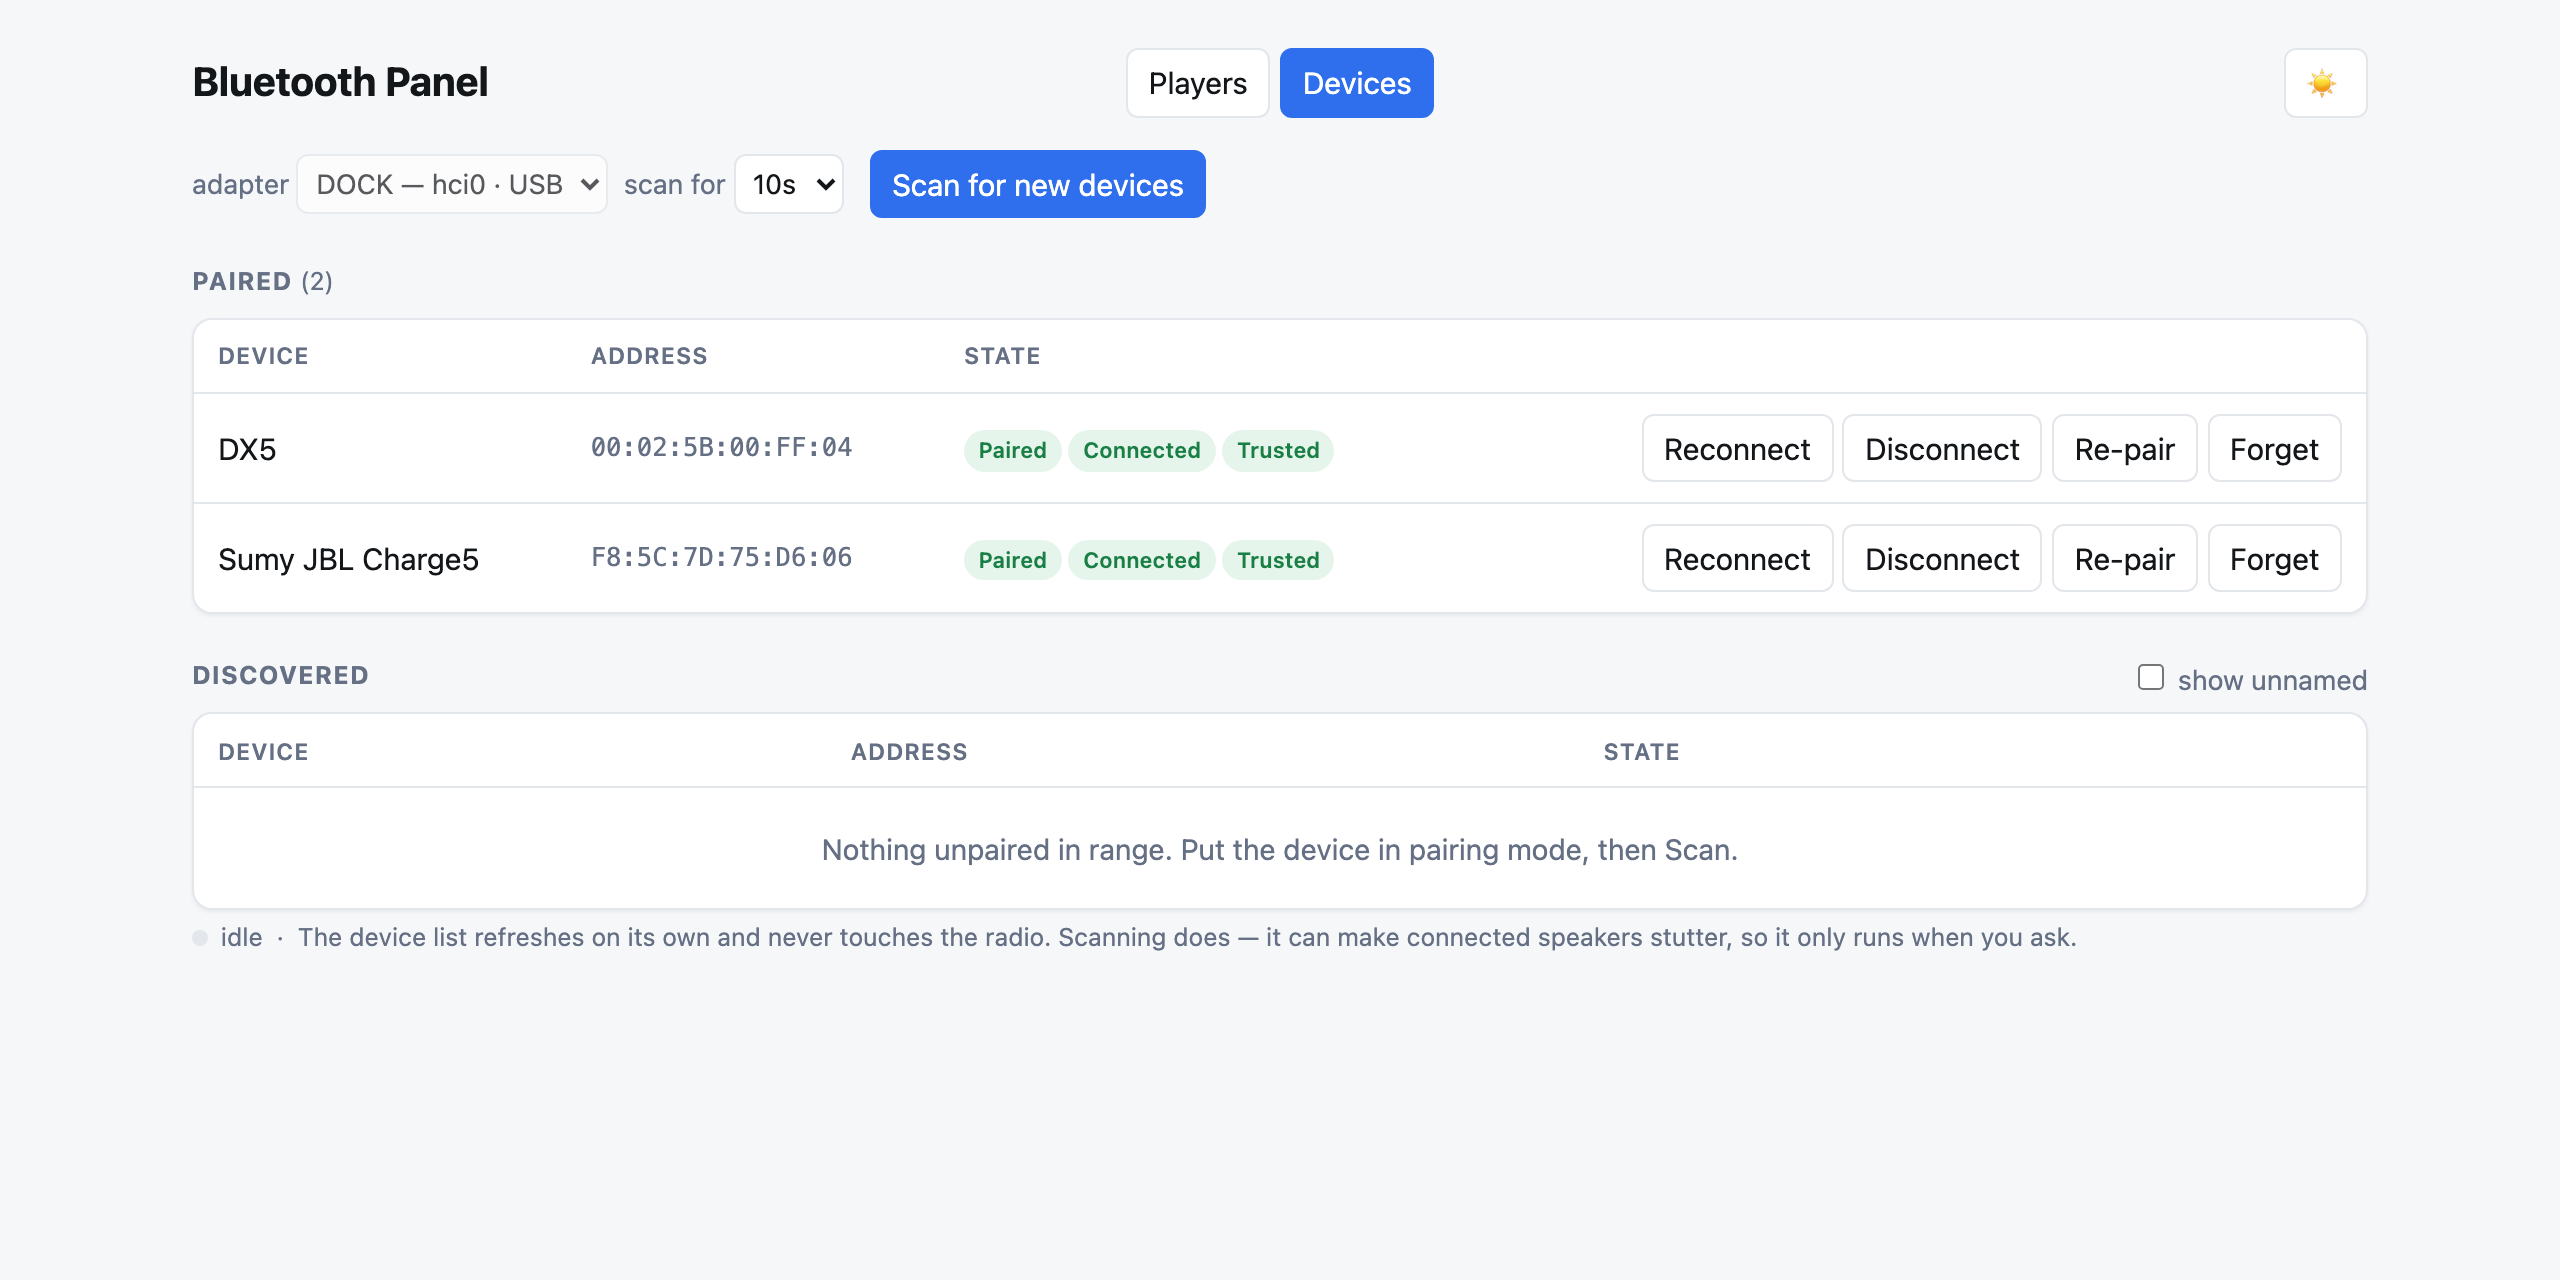
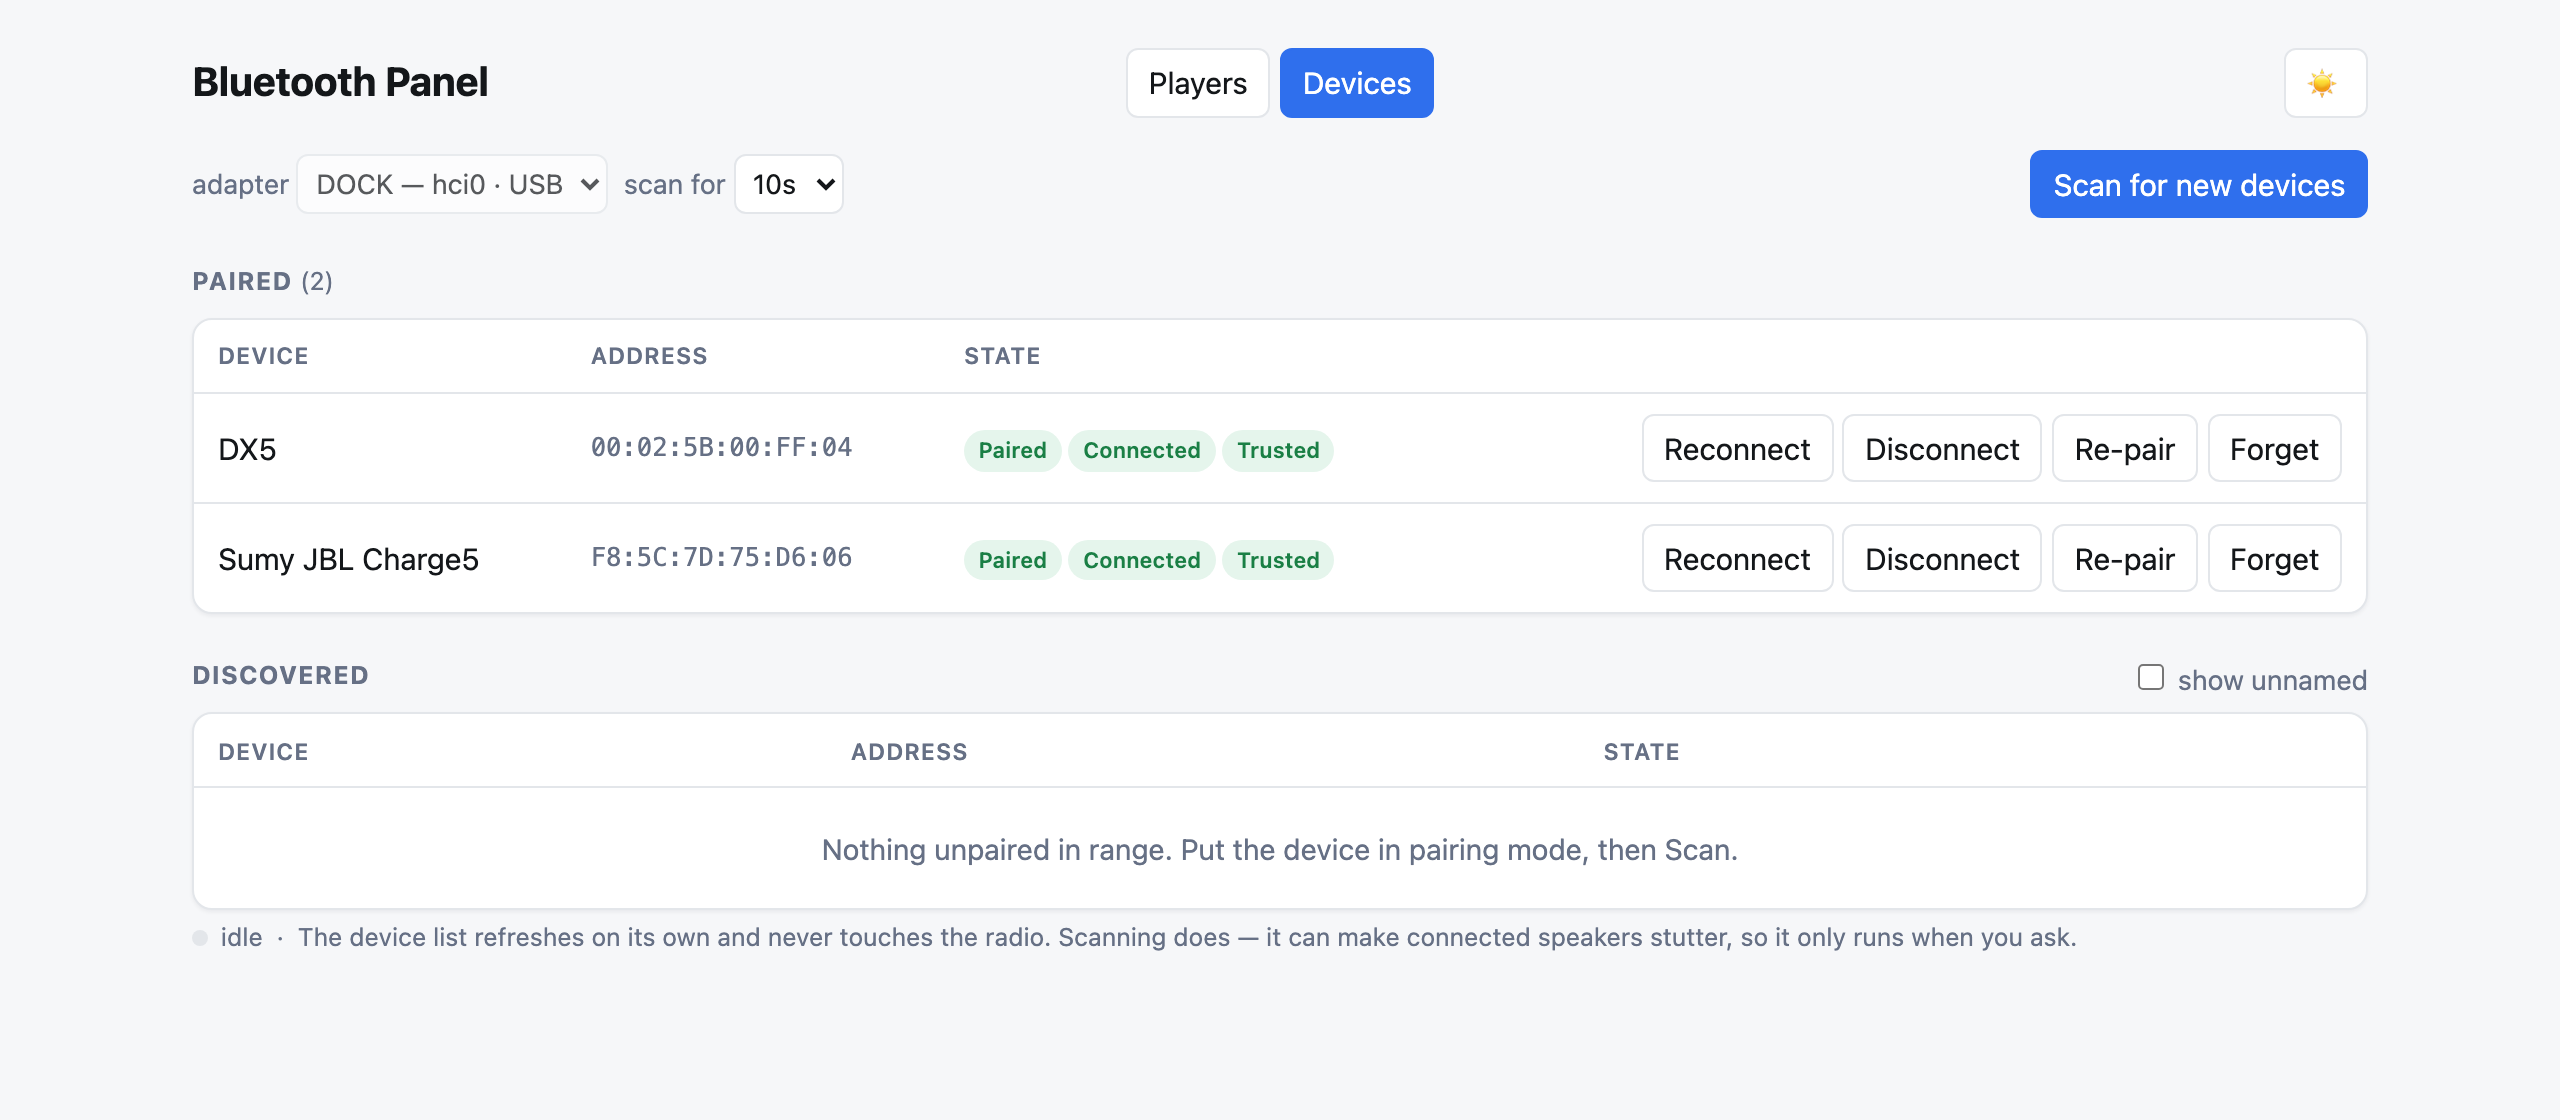
Keep transport controls through a pause, and UI polish
Pausing a player made its controls disappear with no way to resume. Music
Assistant detaches the client's group from its MA stream when you pause and
parks it on "default", which reports canControl=False and carries no metadata.
Reading the group's *current* stream therefore looked like "nothing to control
here": buttons gone, track gone, and /control/play refused because the default
stream cannot be controlled.

The MA stream is still there the whole time, still controllable, still holding
the paused track. snapctl now remembers the last controllable stream per client
and keeps reporting and driving that one when the group has been parked
elsewhere, flagging it with attached=False. The row keeps the artwork and title,
labels it "paused ·", and offers play -- which resumes and re-attaches the
group. Verified end to end against the live server: pause, then resume from the
browser.

Also:

Delete in the edit dialog is filled red rather than a plain button that only
turns red on hover -- a destructive action should look destructive before you
touch it.

The players card no longer shows a horizontal scrollbar. It came from a
min-width on the table that outweighed the container; the two widest cells
(now-playing text, sink name) now give ground instead, with the full sink in
title=.

Scan sits at the right of the Devices toolbar, matching Add player on the
Players side.

README screenshots retaken for all four views against the live server, now with
[…]

diff --git a/static/index.html b/static/index.html
@@ -70,14 +70,13 @@
        the right edge instead of letting the row scroll. */
     overflow-x: auto;
   }
-  .card > table { min-width: 44rem; }
   table { width: 100%; border-collapse: collapse; }
   th, td { padding: .6rem .75rem; text-align: left; border-bottom: 1px solid var(--line); vertical-align: middle; }
   th { font-size: .72rem; text-transform: uppercase; letter-spacing: .04em; color: var(--muted); font-weight: 600; }
   tr:last-child td { border-bottom: none; }
   td.mac { font-family: ui-monospace, SFMono-Regular, Menlo, monospace; font-size: .8rem; color: var(--muted); white-space: nowrap; }
   .sink {
-    font-size: .72rem; color: var(--muted); max-width: 15rem;
+    font-size: .72rem; color: var(--muted); max-width: 12rem;
     white-space: nowrap; overflow: hidden; text-overflow: ellipsis;
   }
   td.actions { text-align: right; white-space: nowrap; }
@@ -95,6 +94,11 @@
   button.primary { background: var(--accent); border-color: var(--accent); color: #fff; }
   button.primary:hover:not(:disabled) { color: #fff; filter: brightness(1.08); }
   button.danger:hover:not(:disabled) { border-color: var(--danger); color: var(--danger); }
+  /* A destructive action should read as destructive before you hover it. */
+  button.danger-solid { background: var(--danger); border-color: var(--danger); color: #fff; }
+  button.danger-solid:hover:not(:disabled) {
+    background: var(--danger); border-color: var(--danger); color: #fff; filter: brightness(1.08);
+  }
   .badge {
     display: inline-block; font-size: .68rem; font-weight: 600; padding: .12rem .45rem;
     border-radius: 999px; margin-right: .22rem; background: var(--line); color: var(--muted);
@@ -148,7 +152,7 @@
     flex: 0 0 auto; background: var(--line);
   }
   /* min-width:0 is what lets the ellipsis actually kick in inside a flex row. */
-  .np-text { min-width: 0; flex: 1 1 auto; max-width: 17rem; }
+  .np-text { min-width: 0; flex: 1 1 auto; max-width: 15rem; }
   .np-title { font-size: .82rem; white-space: nowrap; overflow: hidden; text-overflow: ellipsis; }
   .np-artist { font-size: .74rem; color: var(--muted); white-space: nowrap; overflow: hidden; text-overflow: ellipsis; }
   .transport { display: flex; gap: .2rem; flex: 0 0 auto; white-space: nowrap; }
@@ -191,6 +195,7 @@
         <option value="30">30s</option>
       </select>
     </label>
+    <span class="spacer"></span>
     <button id="scan" class="primary">Scan for new devices</button>
   </div>
 
@@ -301,7 +306,7 @@
 
       <div id="dialogError" class="note err" style="display:none"></div>
       <div class="dlg-actions">
-        <button type="button" id="dialogDelete" class="danger" hidden>Delete player</button>
+        <button type="button" id="dialogDelete" class="danger-solid" hidden>Delete player</button>
         <span class="spacer"></span>
         <button type="button" id="dialogCancel">Cancel</button>
         <button type="submit" class="primary" id="dialogSave">Save</button>
@@ -637,16 +642,19 @@
     // The cells are narrow and the text is ellipsised, so the full strings go
     // in title= -- hovering a truncated track name shows all of it.
     const full = [s.title, s.artist, s.album].filter(Boolean).join(" — ");
+    // Paused: Music Assistant parks the group on "default", so keep showing the
+    // stream the player belongs to and label it rather than going blank.
+    const paused = s.attached === false;
     const title = s.title
       ? `<div class="np-title" title="${esc(full)}">${esc(s.title)}</div>
-         <div class="np-artist" title="${esc(full)}">${esc(s.artist || s.album || "")}</div>`
+         <div class="np-artist" title="${esc(full)}">${paused ? "paused · " : ""}${esc(s.artist || s.album || "")}</div>`
       : `<div class="np-artist" title="${esc(s.stream_id || "")}">${esc(s.stream_id || "no stream")} — ${esc(s.stream_status || "idle")}</div>`;
 
     // Only offer what this stream says it supports; the flags differ per stream
     // and change at runtime. A plain pipe stream gets no buttons at all.
     let controls = "";
     if (s.can_control) {
-      const playing = s.playback_status === "playing";
+      const playing = s.playback_status === "playing" && s.attached !== false;
       const b = (cmd, glyph, on, title) =>
         `<button data-cmd="${cmd}" ${on ? "" : "disabled"} title="${title}">${glyph}</button>`;
       controls =

diff --git a/tests/test_snapctl.py b/tests/test_snapctl.py
@@ -15,10 +15,12 @@ from fake_snapserver import FakeSnapserver  # noqa: E402
 @pytest.fixture
 def server():
     snapctl.invalidate()
+    snapctl._last_controllable.clear()
     fake = FakeSnapserver()
     yield fake
     fake.close()
     snapctl.invalidate()
+    snapctl._last_controllable.clear()
 
 
 # ---- client id derivation ---------------------------------------------------
@@ -142,3 +144,67 @@ def test_stale_clients_and_deletion(server):
     snapctl.delete_client("127.0.0.1", server.port, "Ghost")
     assert "Ghost" not in server.clients
     assert snapctl.stale_clients("127.0.0.1", server.port) == []
+
+
+# ---- pause: Music Assistant parks the group on "default" --------------------
+
+
+def test_a_paused_client_keeps_its_stream_and_stays_controllable(server):
+    """The exact live failure: pause detaches the group, controls vanished.
+
+    Music Assistant moves the client's group to the uncontrollable "default"
+    stream when you pause. Reading the group's *current* stream then reports
+    canControl=False with no metadata, the transport disappears, and there is no
+    way to resume. The MA stream is still present and still controllable.
+    """
+    before = snapctl.describe("127.0.0.1", server.port, "Kitchen#2", use_cache=False)
+    assert before["stream_id"] == "ma-kitchen"
+    assert before["attached"] is True
+
+    server.groups["g2"] = "default"          # what pausing does
+
+    after = snapctl.describe("127.0.0.1", server.port, "Kitchen#2", use_cache=False)
+    assert after["stream_id"] == "ma-kitchen", "should keep driving the MA stream"
+    assert after["attached"] is False, "but report that the group is parked"
+    assert after["can_control"] is True
+    assert after["title"] == "Baby Don't Hurt Me", "the paused track stays visible"
+
+
+def test_resuming_a_paused_client_targets_the_remembered_stream(server):
+    snapctl.describe("127.0.0.1", server.port, "Kitchen#2", use_cache=False)
+    server.groups["g2"] = "default"
+
+    info = snapctl.describe("127.0.0.1", server.port, "Kitchen#2", use_cache=False)
+    snapctl.control("127.0.0.1", server.port, info["stream_id"], "play")
+
+    sent = [p for m, p in server.calls if m == "Stream.Control"]
+    assert sent[-1]["id"] == "ma-kitchen"
+    assert server.streams["ma-kitchen"]["playbackStatus"] == "playing"
+
+
+def test_a_client_that_never_had_a_controllable_stream_is_unchanged(server):
+    """No memory to fall back on: report the truth, offer no buttons."""
+    info = snapctl.describe("127.0.0.1", server.port, "Ghost", use_cache=False)
+    assert info["stream_id"] == "default"
+    assert info["can_control"] is False
+    assert info["attached"] is True
+
+
+def test_the_remembered_stream_is_dropped_if_the_server_forgets_it(server):
+    snapctl.describe("127.0.0.1", server.port, "Kitchen#2", use_cache=False)
+    server.groups["g2"] = "default"
+    del server.streams["ma-kitchen"]         # MA tore the stream down
+
+    info = snapctl.describe("127.0.0.1", server.port, "Kitchen#2", use_cache=False)
+    assert info["stream_id"] == "default"
+    assert info["can_control"] is False
+    snapctl.forget("Kitchen#2")
+
+
+def test_moving_to_another_controllable_stream_updates_the_memory(server):
+    snapctl.describe("127.0.0.1", server.port, "Kitchen#2", use_cache=False)
+    server.groups["g2"] = "ma-dx5"
+
+    info = snapctl.describe("127.0.0.1", server.port, "Kitchen#2", use_cache=False)
+    assert info["stream_id"] == "ma-dx5"
+    assert info["attached"] is True

diff --git a/snapctl.py b/snapctl.py
@@ -41,6 +41,16 @@ class SnapcastError(RuntimeError):
 _cache = {"key": None, "at": 0.0, "value": None}
 _cache_lock = threading.Lock()
 
+# The last stream each client was on that could actually be controlled.
+#
+# Music Assistant detaches a client's group from its MA stream when you pause,
+# parking it on "default" -- which reports canControl=False and carries no
+# metadata. Read naively that looks like "nothing to control here": the transport
+# buttons vanish and there is no way to resume from this panel. The MA stream is
+# still there, still controllable, still holding the paused track, so remember it
+# and keep driving that. Verified against a live Music Assistant snapserver.
+_last_controllable = {}
+
 
 def client_id_for(name, instance):
     """The client id snapclient will register with.
@@ -111,6 +121,10 @@ def invalidate():
         _cache.update(key=None, at=0.0, value=None)
 
 
+def forget(client_id):
+    _last_controllable.pop(client_id, None)
+
+
 def _find(status, client_id):
     for group in status.get("groups", []):
         for client in group.get("clients", []):
@@ -136,6 +150,19 @@ def describe(host, port, client_id, use_cache=True):
 
     stream = _stream(status, group.get("stream_id")) or {}
     props = stream.get("properties") or {}
+
+    attached = True
+    if props.get("canControl"):
+        _last_controllable[client_id] = stream.get("id")
+    else:
+        # Fall back to the stream this client last played from, as long as the
+        # server still has it. That is the paused case.
+        remembered = _stream(status, _last_controllable.get(client_id))
+        if remembered and (remembered.get("properties") or {}).get("canControl"):
+            stream = remembered
+            props = stream.get("properties") or {}
+            attached = False
+
     meta = props.get("metadata") or {}
     volume = (client.get("config") or {}).get("volume") or {}
     artists = meta.get("artist") or []
@@ -154,6 +181,9 @@ def describe(host, port, client_id, use_cache=True):
         "group_muted": bool(group.get("muted")),
         "stream_id": stream.get("id"),
         "stream_status": stream.get("status"),
+        # False when the group has been parked elsewhere (paused) but we are
+        # still reporting -- and controlling -- the stream it belongs to.
+        "attached": attached,
         "playback_status": props.get("playbackStatus"),
         "can_control": bool(props.get("canControl")),
         "can_pause": bool(props.get("canPause")),
